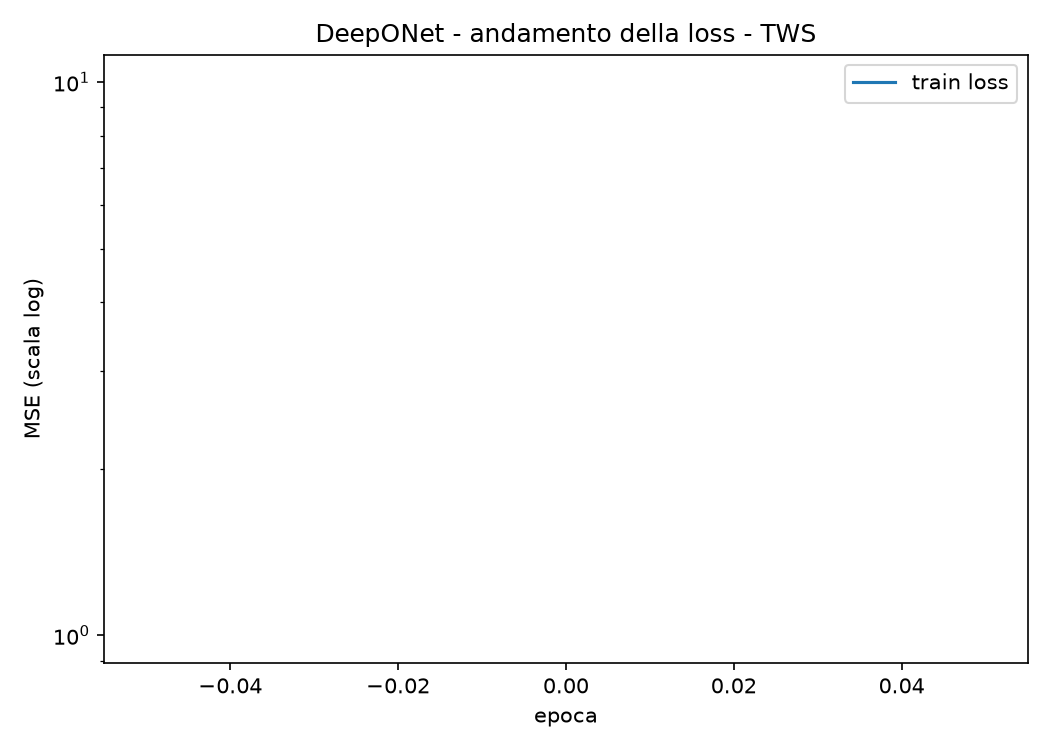
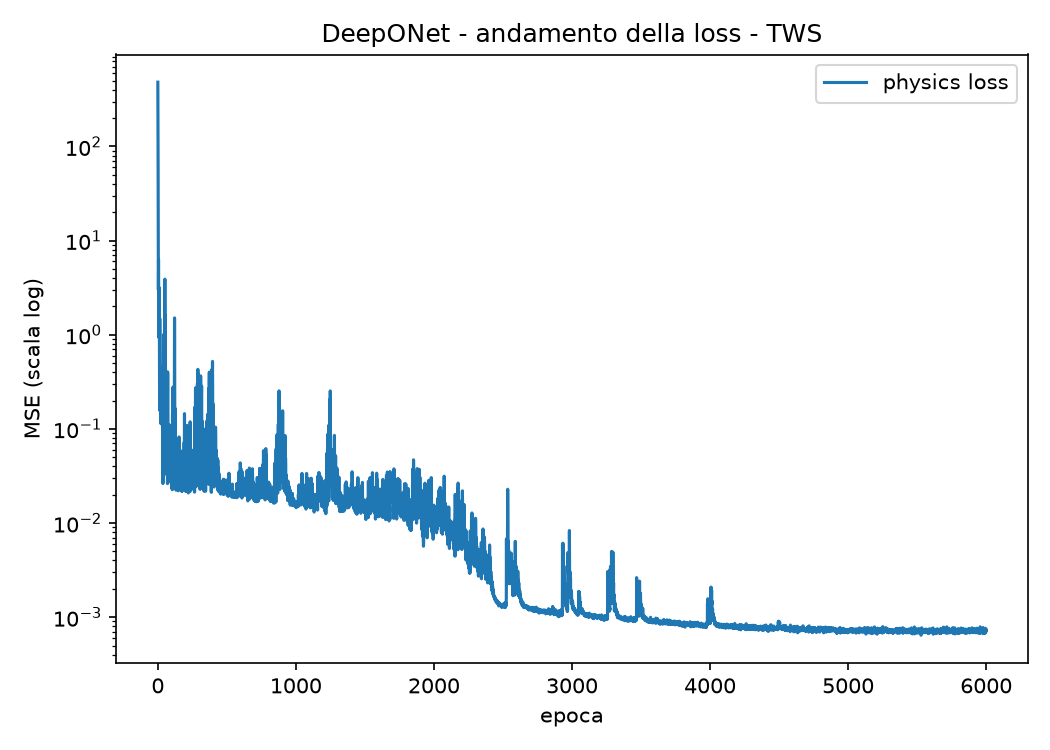
refactor: update training parameters and enhance loss tracking in train_deeponet_TWS function

diff --git a/src/training/train_deeponet_TWS.py b/src/training/train_deeponet_TWS.py
@@ -76,6 +76,8 @@ def train_deeponet_TWS(model, epochs= 6000, lr = 1e-3, device = "cpu",
 
         model.eval()
 
+        history["train_loss"].append(loss.item())
+
         if epoch % 400 == 0 or epoch == epochs - 1:
                 print( f"Epoch {epoch:5d} | total_loss: {loss.item():.6e} ")
 
@@ -83,7 +85,7 @@ def train_deeponet_TWS(model, epochs= 6000, lr = 1e-3, device = "cpu",
 
 def plot_deeponet_loss(history, save_path=None, show=True):
     plt.figure(figsize=(7, 5))
-    plt.semilogy(history["total_loss"], label="train loss")
+    plt.semilogy(history["train_loss"], label="physics loss")
     plt.xlabel("epoca")
     plt.ylabel("MSE (scala log)")
     plt.legend()

diff --git a/main_TWS.py b/main_TWS.py
@@ -16,7 +16,7 @@ model.load_state_dict(torch.load("weights/deeponet_weights_mmt.pt"))
 model, history = train_deeponet_TWS(
     model, epochs=6000, lr=1e-3,
     sensor_grid=sensor_grid, A=1.0, k_c_min=0.1, k_c_max=1.0,
-    d = 1.0, beta=-0.25, n_bc_points=100, rng = rng, lambda1 = 0.5, lambda2 = 0.5, lambda3 = 1e2
+    d = 1.0, beta=-0.25, n_bc_points=3000, rng = rng, lambda1 = 1, lambda2 = 1, lambda3 = 1
 )
 model.eval()
 #torch.save(model.state_dict(), "weights/deeponet_weights_TWS.pt")
